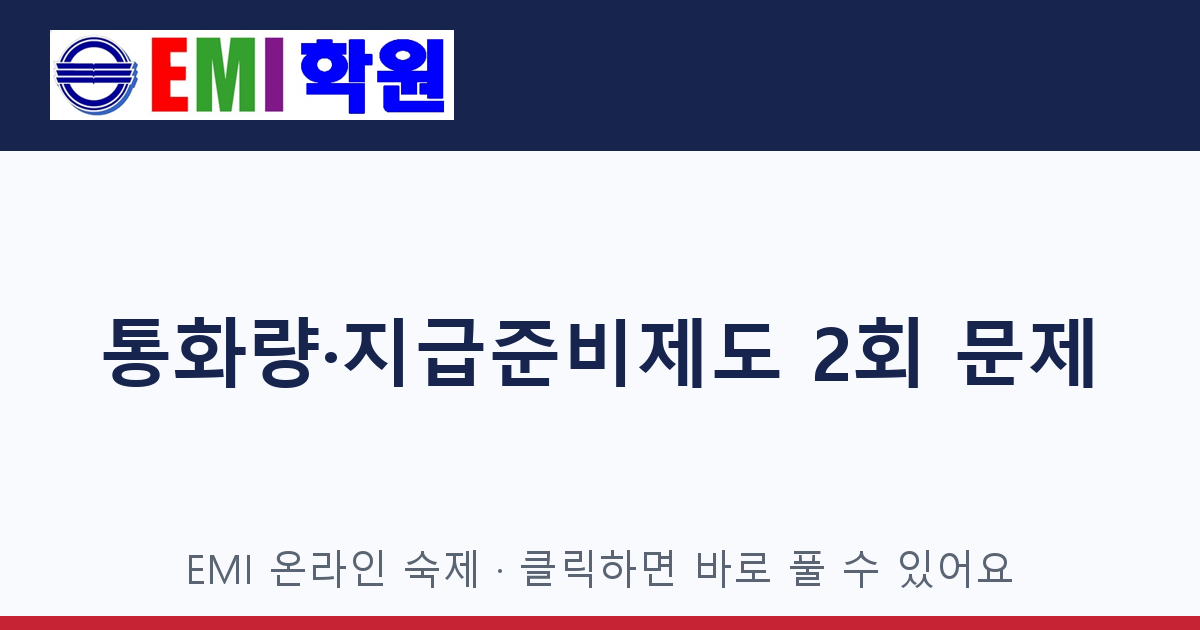
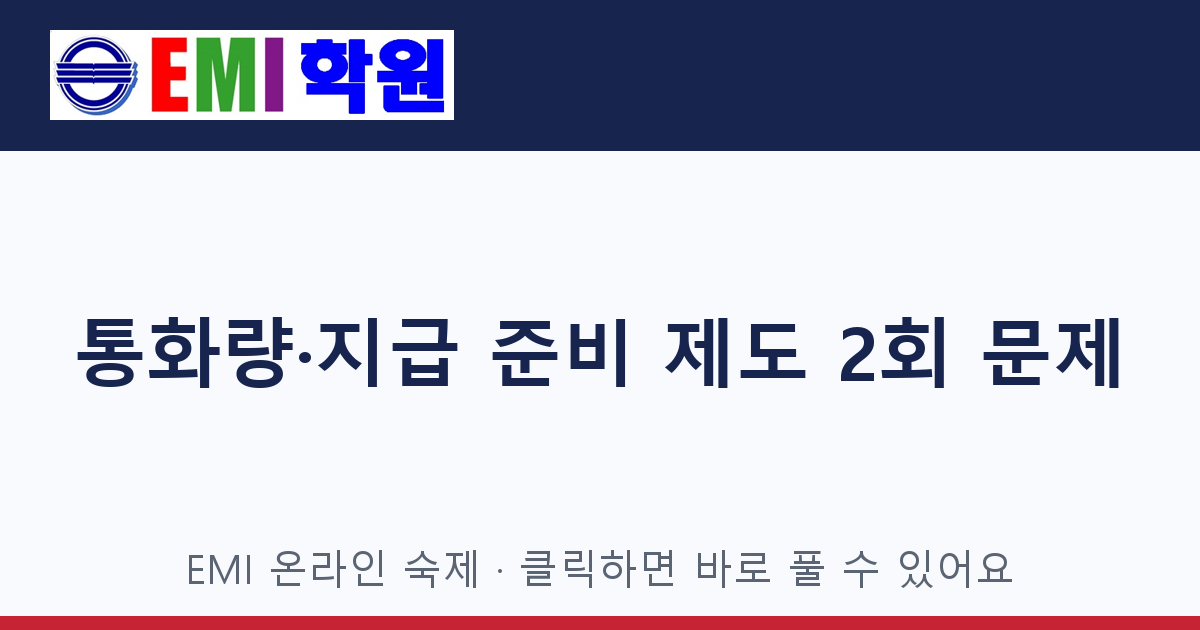
cards: tong2

Changed region(s): [[0.5242, 0.4825, 0.9558, 0.6333], [0.0617, 0.4825, 0.4008, 0.6333]]

diff --git a/tong2.html b/tong2.html
@@ -1,20 +1,20 @@
 <!doctype html><html lang="ko"><head><meta charset="utf-8">
 <meta name="viewport" content="width=device-width, initial-scale=1">
-<title>통화량·지급준비제도 2회 숙제</title>
+<title>통화량·지급 준비 제도 2회 숙제 (변형 1~10번)</title>
 <meta name="description" content="EMI 온라인 숙제 · 클릭하면 바로 풀 수 있어요 (제출 결과는 선생님에게 전송됩니다)">
 <meta property="og:type" content="website">
-<meta property="og:title" content="통화량·지급준비제도 2회 숙제">
+<meta property="og:title" content="통화량·지급 준비 제도 2회 숙제 (변형 1~10번)">
 <meta property="og:description" content="EMI 온라인 숙제 · 클릭하면 바로 풀 수 있어요 (제출 결과는 선생님에게 전송됩니다)">
 <meta property="og:image" content="https://yanga1052-del.github.io/emi-hw-preview/img/tong2.png">
 <meta property="og:url" content="https://yanga1052-del.github.io/emi-hw-preview/tong2.html">
 <meta name="twitter:card" content="summary_large_image">
-<meta name="twitter:title" content="통화량·지급준비제도 2회 숙제">
+<meta name="twitter:title" content="통화량·지급 준비 제도 2회 숙제 (변형 1~10번)">
 <meta name="twitter:description" content="EMI 온라인 숙제 · 클릭하면 바로 풀 수 있어요 (제출 결과는 선생님에게 전송됩니다)">
 <meta name="twitter:image" content="https://yanga1052-del.github.io/emi-hw-preview/img/tong2.png">
 <meta http-equiv="refresh" content="0; url=https://script.google.com/macros/s/AKfycbyF3ateTjzvvQgbUPQ1zHatpe2qTKi0NUpeD05WZu_OVzvtxLwxgMTxlddT3Mv3tvPU/exec?hw=tong2">
 <style>body{font-family:'Malgun Gothic',sans-serif;background:#f6f8fb;color:#1a2432;display:flex;min-height:100vh;align-items:center;justify-content:center;margin:0}
 .card{background:#fff;border-radius:16px;box-shadow:0 8px 30px rgba(20,30,70,.12);padding:40px 44px;text-align:center;max-width:460px}
 h1{color:#16244e;font-size:22px;margin:.2em 0 .6em} p{color:#5a6472} a{display:inline-block;margin-top:18px;background:#16244e;color:#fff;text-decoration:none;padding:13px 26px;border-radius:10px;font-weight:bold}</style>
-</head><body><div class="card"><h1>통화량·지급준비제도 2회 숙제</h1><p>잠시 후 숙제 페이지로 이동합니다.<br>이동하지 않으면 아래 버튼을 눌러 주세요.</p>
+</head><body><div class="card"><h1>통화량·지급 준비 제도 2회 숙제 (변형 1~10번)</h1><p>잠시 후 숙제 페이지로 이동합니다.<br>이동하지 않으면 아래 버튼을 눌러 주세요.</p>
 <a href="https://script.google.com/macros/s/AKfycbyF3ateTjzvvQgbUPQ1zHatpe2qTKi0NUpeD05WZu_OVzvtxLwxgMTxlddT3Mv3tvPU/exec?hw=tong2">숙제 풀러 가기 →</a></div>
 <script>location.replace("https://script.google.com/macros/s/AKfycbyF3ateTjzvvQgbUPQ1zHatpe2qTKi0NUpeD05WZu_OVzvtxLwxgMTxlddT3Mv3tvPU/exec?hw=tong2");</script></body></html>

diff --git a/index.html b/index.html
@@ -18,7 +18,7 @@
 <li><a href="imdae2.html">임대차보호법 2회 숙제</a></li>
 <li><a href="imdae3.html">임대차보호법 3회 숙제</a></li>
 <li><a href="tong1.html">통화량·지급 준비 제도 1회 숙제 (변형 1~10번)</a></li>
-<li><a href="tong2.html">통화량·지급준비제도 2회 숙제</a></li>
+<li><a href="tong2.html">통화량·지급 준비 제도 2회 숙제 (변형 1~10번)</a></li>
 <li><a href="tong3.html">통화량·지급준비제도 3회 숙제</a></li>
 <li><a href="suso3.html">수소 전기차 3회 숙제</a></li>
 <li><a href="theory1.html">공통국어2 작문 이론 [4회고사 대비] 1회 숙제</a></li>
